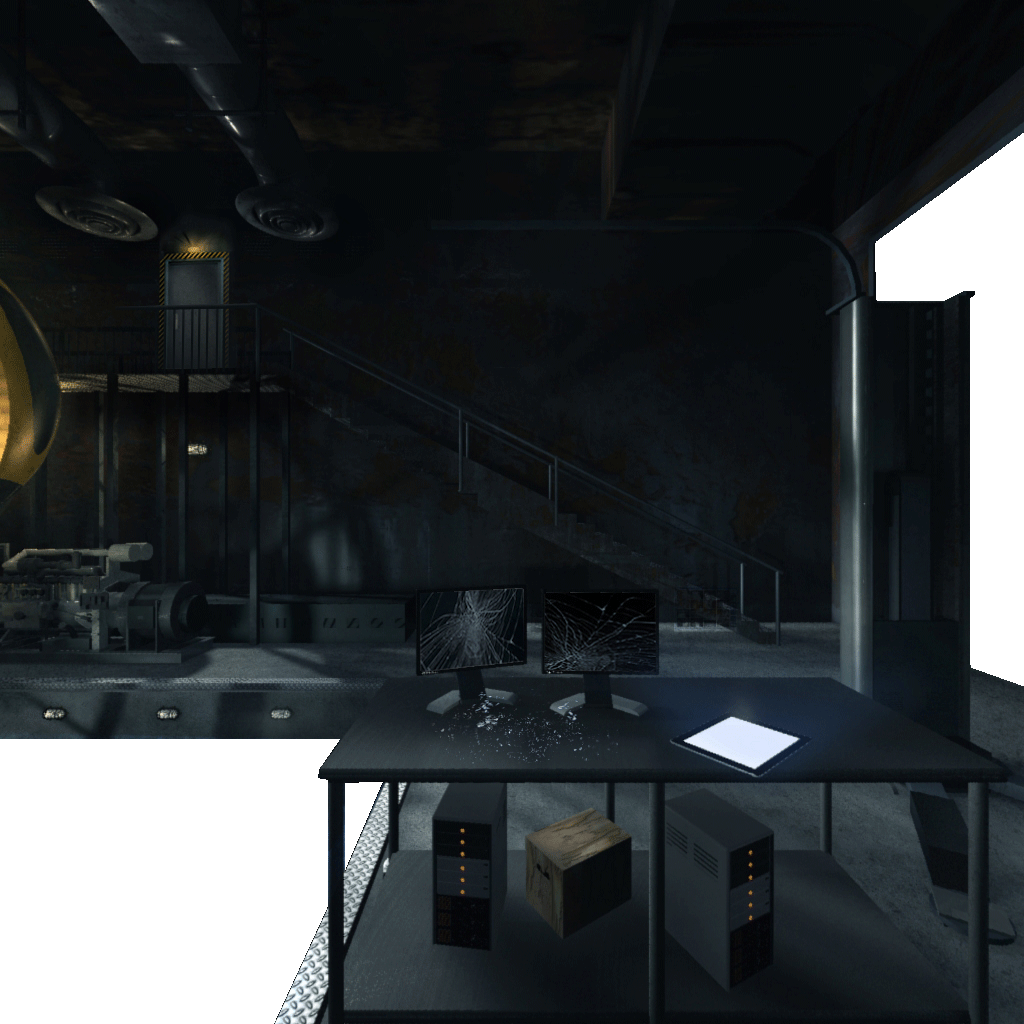
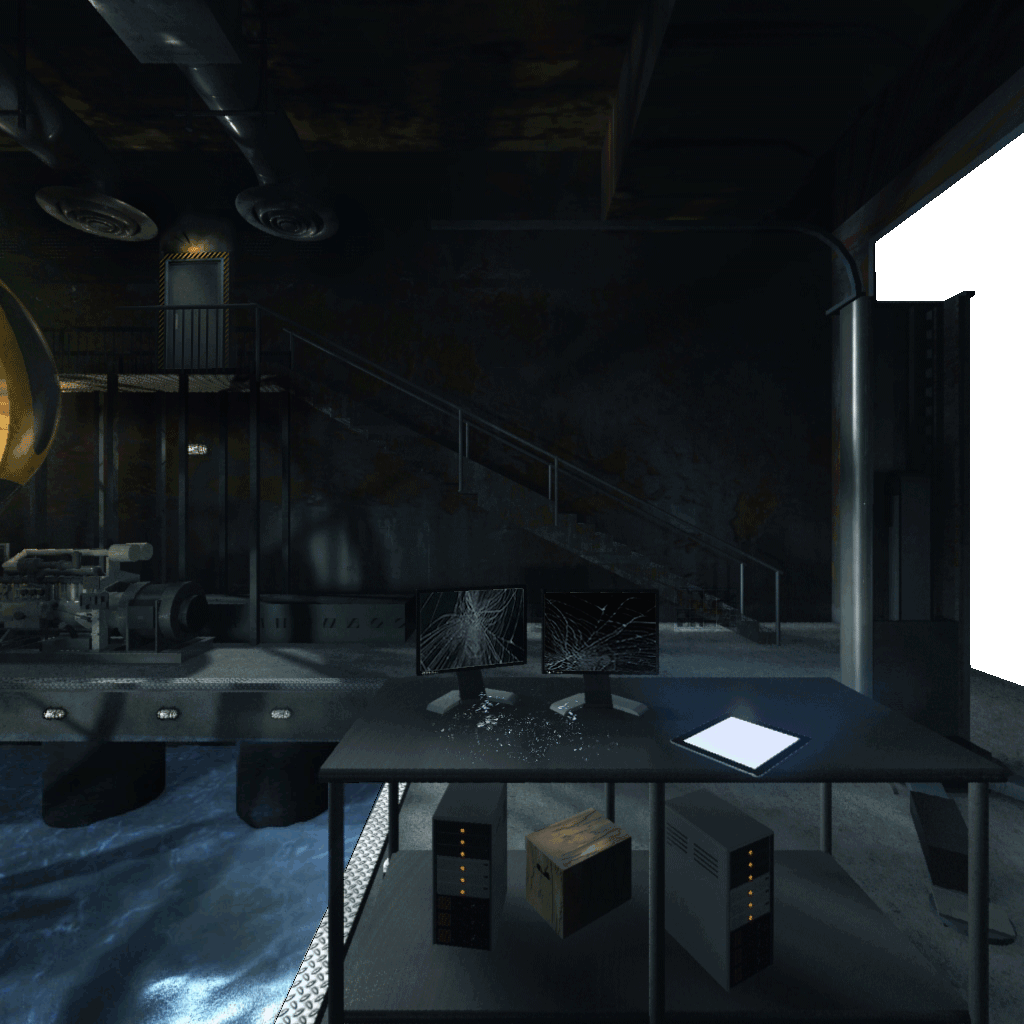
subhnager engine room

Changed region(s): [[0.0, 0.7188, 0.375, 1.0]]

diff --git a/subhanger.php b/subhanger.php
@@ -39,17 +39,20 @@
   <a class="volume-toggle"><i class="icon-volume-up"></i></a>
 </header>
 
-    <div id="wrapper" class="wrapper">
+    <div id="wrapper" class="wrapper" style="position:fixed">
+
+     
 
        <div class="pano-underlay">
         <video width="100%" autoplay loop = "true" style="position:absolute;" id="video-underlay" preload="auto">
            <source src="video/transitions/wireframe_waves.webm" type="video/webm" />
         </video> 
 
-      </div>
+      </div> 
+      <canvas id="walking-canvas" style="position:absolute;opacity:0" width="1200" width="800"></canvas>
       <div class="underwater">  </div>
   		<div id="panocontainer" class="subhanger"></div>
-
+      <div id="scroll-directions"></div>
   		<div class="breadcrumb"></div>
 
   	</div>
@@ -72,23 +75,124 @@
 
     <script>
 
-     var krpano
-     var loadsecondscene = function() {
-      $('.wrapper').fadeOut(800, function() {
+      var krpano
+      var loadsecondscene = function() {
+        $('.wrapper').fadeOut(800, function() {
         krpano = document.getElementById("krpanoObject");
         krpano.call("action(loadsecondscene)")
-      })
-     }
-     
+        })
+      }
+      var soundadjust = function(coord,fov) {
+
+        var convCoord =  Math.abs(coord%360);
+
+    
+
+        if(convCoord > 100 && convCoord < 160){
+          $("#ghost-canvas").fadeIn(2500)
+        }else{
+          $("#ghost-canvas").fadeOut(2500)
+        }
+
+ 
+        if(fov <25) {
+          $('#scroll-directions').fadeIn()
+          $('#panocontainer').fadeOut(500)
+        }else{
+          $('#panocontainer').fadeIn(500)
+          $('#scroll-directions').fadeOut()
+          $('#walking-canvas').css('opacity', Math.abs(1-fov/90)+.1)
+        }
+
+      }
       $(document).ready(function(){
 
-      //$('#inter-text' ).shuffleLetters();
-      $("#video-underlay")[0].playbackRate = 0.7
-		 //master.videoTrans("video/transitions/explosion.webm")
-     master.blankTrans()
+	
+        master.blankTrans()
         document.addEventListener( 'mousedown', function(){$('#inter-text').fadeOut(350);}, false );
-
         master.setDeepLinking("subhanger.php")
+
+ var setStage = function(){
+
+        var playTrigger = 0
+
+         var dynamicWidth = window.innerWidth;
+
+         var dynamicHeight = dynamicWidth * .5625;
+
+         var dynamicTop = (window.innerHeight - dynamicHeight)/2;
+
+          $("#video-overlay-engine-room").css("top",dynamicTop)
+
+          $("#video-overlay-engine-room").css("width",window.innerWidth)
+
+          $("#video-content-wrap-engine-room").css("width",window.innerWidth)
+          
+
+
+
+         $("#walking-canvas").css("top",dynamicTop)
+
+         var walkthrough = new walkthroughFunctions(dynamicWidth,dynamicHeight,"walking-canvas","video/video_clips/engineroom/",601)
+
+         scrollPos = walkthrough.scrollStopFunction()
+
+          var scrollTrigger,scrollPercent = 1
+          var _id = "video/doc_content/mr_jack_720.webm"
+
+          function scrollerFunction(){
+
+            scrollPercent = Math.ceil((walkthrough.scrollValue / (5000-$(window).height())) * 100);
+
+  
+           if(walkthrough.scrollPos < 5){
+             $("#scroll-start").fadeIn(1000)
+           }else{
+             $("#scroll-start").fadeOut(700)
+           }
+
+            if(walkthrough.scrollPos > 85 && playTrigger == 0){
+              console.log(_id)
+              $(".compass").fadeOut()
+
+              $(".video-content-wrap-engine-room").fadeIn(1500)
+              $('#video-overlay-engine-room source').attr('src', _id);
+              $('#video-overlay-engine-room video').load();
+              master.audioFadeAll(0.5)
+              $("#video-overlay-engine-room")[0].load()
+              $("#video-overlay-engine-room")[0].play()
+
+              $("#video-overlay-engine-room")[0].onended = function(e) {
+                //closeVideo()
+              }
+              playTrigger = 1
+           }
+
+            if(walkthrough.scrollPos < 85 && playTrigger == 1) {
+              //master.audioFadeInAll(0.7)
+              playTrigger = 0
+              console.log("OUTSIDE THE ZONE")
+              $(".compass").fadeIn()
+              $(".video-content-wrap-engine-room").fadeOut(1000,function(){
+              $("#video-overlay-engine-room")[0].pause()
+              })
+           }
+
+            requestAnimationFrame(scrollerFunction)
+        }
+       scrollerFunction()
+
+      $("#to-control").click(function(){
+        closeVideo()
+      })
+
+       }
+
+      setStage()
+
+      window.onresize = function(event) {
+      setStage()
+      }       
       })
 
     </script>
